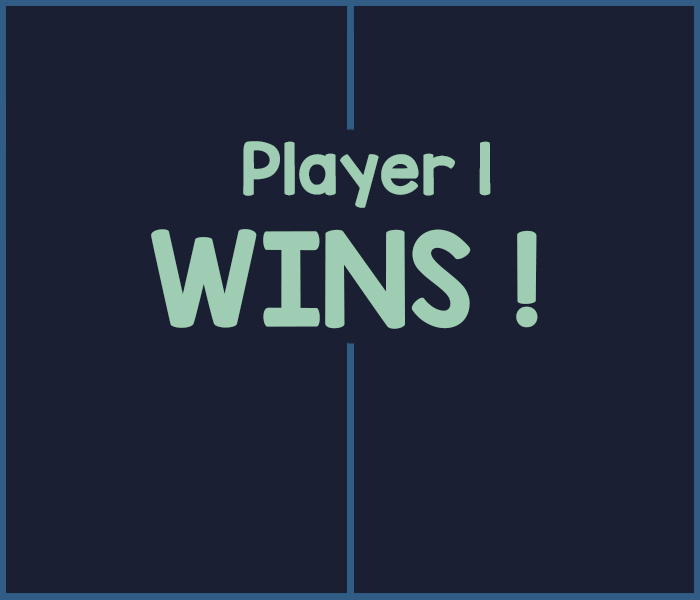
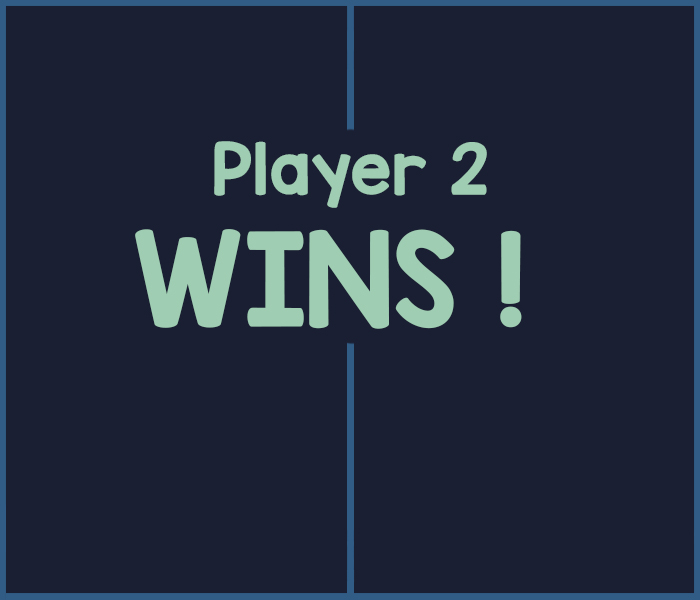
Add files via upload

Changed region(s): [[0.18, 0.21, 0.78, 0.57]]

diff --git a/PongGame/PONG.py b/PongGame/PONG.py
@@ -1,0 +1,224 @@
+"""Pong game simples para 2 PLAYERS
+
+Feito por Amanda Henrique
+Para a matéria de Programação 2º Semestre
+
+Use W,S para controlar o player 1 (vermelho)
+Use UP,DOWN para controlar o player 2 (verde)
+
+"""
+
+import pygame
+from pygame.locals import *
+from pygame.constants import *
+from time import sleep
+from pygame.time import Clock
+from pygame.mixer import Sound
+
+largura = 700
+altura = 600
+
+pygame.init()
+pygame.mixer.init()
+tela = pygame.display.set_mode((largura,altura))
+tela
+pygame.display.set_caption("Pong Game")
+updateRelogio = Clock()
+
+retCima = pygame.Rect(0,-3,700,3)
+retBaixo = pygame.Rect(0,600,700,4)
+retEsquerda = pygame.Rect(-3,0,3,600)
+retDireita = pygame.Rect(700, 0, 4, 600)
+player_verde = pygame.Rect(670,300,15,100)
+player_vermelho = pygame.Rect(15,300,15,100)
+
+fundo = pygame.image.load("background.jpg")
+
+verdeWins1 = pygame.image.load("verdeWins1.jpg")
+verdeWins2 = pygame.image.load("verdeWins2.jpg")
+
+vermelhoWins1 = pygame.image.load("vermelhoWins1.jpg")
+vermelhoWins2 = pygame.image.load("vermelhoWins2.jpg")
+
+
+bolinha = pygame.Rect(largura/2,altura/2,20,20)
+
+velocidade_bolinhaX = 4
+velocidade_bolinhaY = 3
+
+minhaFonte = pygame.font.Font("KGRedHands.ttf",50)
+pontuaçao_verde = 0
+pontuaçao_vermelho = 0
+
+verde = 159,205,179
+vermelho = 230,102,99
+
+somBolinha = pygame.mixer.Sound("SomBolinha.wav")
+
+
+jogando = False
+
+def telaInical():
+    alterna1 = pygame.image.load("alterna1.jpg")
+    alterna2 = pygame.image.load("alterna2.jpg")
+    enter = pygame.image.load("enter.jpg")
+
+    tela.blit(alterna1, (0, 0))
+
+    global jogando
+    pisca = 1
+
+
+
+    while jogando == False :
+        tela.blit(alterna1,(0,0))
+        if pisca == 1:
+            tela.blit(alterna1,(0,0))
+            sleep(0.5)
+            pisca = 0
+
+        elif pisca == 0:
+            tela.blit(alterna2,(0,0))
+            sleep(0.5)
+            pisca = 1
+
+        for event in pygame.event.get():
+            if event.type == KEYDOWN:
+                if event.key == K_SPACE:
+                    jogando = True
+
+                if jogando == True:
+                    tela.blit(enter,(0,0))
+
+
+
+            if event.type == QUIT:
+                exit()
+
+                if event.key == K_ESCAPE:
+                    exit()
+
+
+        pygame.display.update()
+
+
+telaInical()
+
+
+
+piscaVerde = 0
+piscaVermelho = 0
+
+while jogando == True:
+
+    top_verde = player_verde.top
+    top_vermelho = player_vermelho.top
+
+    key = pygame.key.get_pressed()
+    tela.blit(fundo,(0,0))
+    textoPlayer_verde = minhaFonte.render("{}".format(pontuaçao_verde), 1, (255, 255, 255))
+    textoPlayer_vermelho = minhaFonte.render("{}".format(pontuaçao_vermelho),1,(255,255,255))
+
+    tela.blit(textoPlayer_vermelho,(240,40))
+    tela.blit(textoPlayer_verde,(420,40))
+
+
+    pygame.draw.rect(tela,(0,0,0),retEsquerda)
+    pygame.draw.rect(tela,(0,0,0),retDireita)
+    pygame.draw.rect(tela,(0,0,0),retCima)
+    pygame.draw.rect(tela,(0,0,0),retBaixo)
+    pygame.draw.rect(tela,(verde),player_verde)
+    pygame.draw.rect(tela,(vermelho),player_vermelho)
+    pygame.draw.ellipse(tela,(255,255,255),bolinha)
+
+    bolinha.move_ip(velocidade_bolinhaX,velocidade_bolinhaY)
+
+
+    if key[pygame.K_DOWN]:
+        player_verde.move_ip(0,6)
+    if key[pygame.K_UP]:
+        player_verde.move_ip(0,-6)
+    if key[pygame.K_w]:
+        player_vermelho.move_ip(0,-6)
+    if key[pygame.K_s]:
+        player_vermelho.move_ip(0,6)
+
+
+
+    if bolinha.colliderect(retBaixo):
+        velocidade_bolinhaY = velocidade_bolinhaY * -1
+    if bolinha.colliderect(retCima):
+        velocidade_bolinhaY = velocidade_bolinhaY * -1
+
+
+    if bolinha.colliderect(player_verde):
+        velocidade_bolinhaX = velocidade_bolinhaX * -1
+
+    if bolinha.colliderect(player_vermelho):
+        velocidade_bolinhaX = velocidade_bolinhaX * -1
+
+
+    if player_verde.colliderect(retCima):
+        player_verde.top = top_verde
+    if player_verde.colliderect(retBaixo):
+        player_verde.top = top_verde
+    if player_vermelho.colliderect(retCima):
+        player_vermelho.top = top_vermelho
+    if player_vermelho.colliderect(retBaixo):
+        player_vermelho.top = top_vermelho
+
+
+    if bolinha.colliderect(retEsquerda):
+        pontuaçao_verde += 1
+        velocidade_bolinhaX = 0
+        velocidade_bolinhaY = 0
+        bolinha = pygame.Rect(100,altura/2,20,20)
+        velocidade_bolinhaX = 4
+        velocidade_bolinhaY = 3
+
+
+    if bolinha.colliderect(retDireita):
+        pontuaçao_vermelho += 1
+        velocidade_bolinhaX = 0
+        velocidade_bolinhaY = 0
+        bolinha = pygame.Rect(200,400,20,20)
+        velocidade_bolinhaX = 4
+        velocidade_bolinhaY = 3
+
+
+    if  pontuaçao_verde == 6:
+        tela.blit(verdeWins1,(0,0))
+        velocidade_bolinhaX,velocidade_bolinhaY = 0,0
+        if piscaVerde == 0 :
+            tela.blit(verdeWins1,(0,0))
+            sleep(0.5)
+            piscaVerde = 1
+        elif piscaVerde == 1:
+            tela.blit(verdeWins2,(0,0))
+            sleep(0.5)
+            piscaVerde = 0
+
+
+    if pontuaçao_vermelho == 6:
+        tela.blit(vermelhoWins1,(0,0))
+        velocidade_bolinhaX,velocidade_bolinhaY = 0,0
+        if piscaVermelho == 0:
+            tela.blit(vermelhoWins1,(0,0))
+            sleep(0.5)
+            piscaVermelho = 1
+        elif piscaVermelho == 1:
+            tela.blit(vermelhoWins2,(0,0))
+            sleep(0.5)
+            piscaVermelho = 0
+
+
+
+    for event in pygame.event.get():
+        if event.type == QUIT:
+            exit()
+        if event.type == KEYDOWN:
+            if event.key == K_ESCAPE:
+                exit()
+
+    updateRelogio.tick(100)
+    pygame.display.update()
